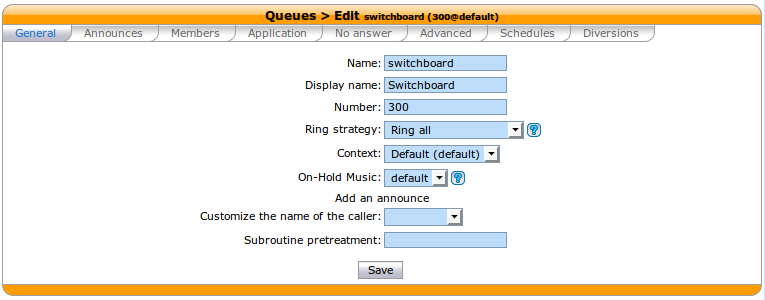
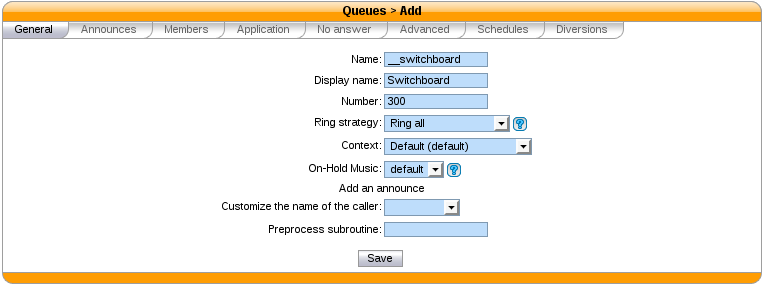
add switchboard in client

diff --git a/source/administration/switchboard/switchboard.rst b/source/administration/switchboard/switchboard.rst
@@ -23,7 +23,7 @@ Overview
 The chosen architecture for the switchboard is to have a queue for calls distributed to the operator.
 When a call is received, it is distributed to the operators.
 
-The supported phone for the switchboard is a *Aastra 6757i*.
+The supported phones for the switchboard are the *Aastra 6755i* and *Aastra 6757i*.
 
 
 Create a Queue for Your Switchboard
@@ -31,9 +31,10 @@ Create a Queue for Your Switchboard
 
 All calls to the switchboard will first be distributed to a queue.
 
+The queue must be called ``__switchboard``.
 For this example, we will use the following configuration:
 
-* Switchboard queue name *switchboard*
+* Switchboard queue name *__switchboard*
 * Switchboard queue number *300*
 
 To create this queue, go to :menuselection:`Services --> Call center --> Queues` and click the add button.
@@ -57,7 +58,7 @@ For this example, we will use the following configuration:
 .. figure:: images/user_general.png
    :scale: 85%
 
-The selected device is a *Aastra 6757i*.
+The selected device is a *Aastra 6755i* or *Aastra 6757i*.
 
 .. figure:: images/user_lines.png
    :scale: 85%
@@ -97,3 +98,21 @@ destination should be set to a voice mail.
 
 .. figure:: images/queue_no_answer.png
    :scale: 85%
+
+
+Use XiVO Client to transfer calls
+---------------------------------
+
+When the user ``Bob`` connects his XiVO Client, he gets the Switchboard profile.
+
+.. figure:: images/xivoclient-switchboard.png
+   :scale: 85%
+
+The two main Xlets of this profile are the Switchboard Xlet and the Contacts Xlet.
+
+1. The Switchboard Xlet lists the incoming calls waiting to be answered. When your
+phone is ringing, the oldest waiting call can be answered by clicking on it or
+by pressing ``Enter``.
+
+2. The Contacts Xlet lists and searches among the users of the company. See the
+page about the :ref:`contact-xlet` for how to transfer calls.

diff --git a/source/cti_client/xlets/contact.rst b/source/cti_client/xlets/contact.rst
@@ -1,5 +1,7 @@
 .. index:: Contacts
 
+.. _contact-xlet:
+
 ************
 Contact Xlet
 ************
